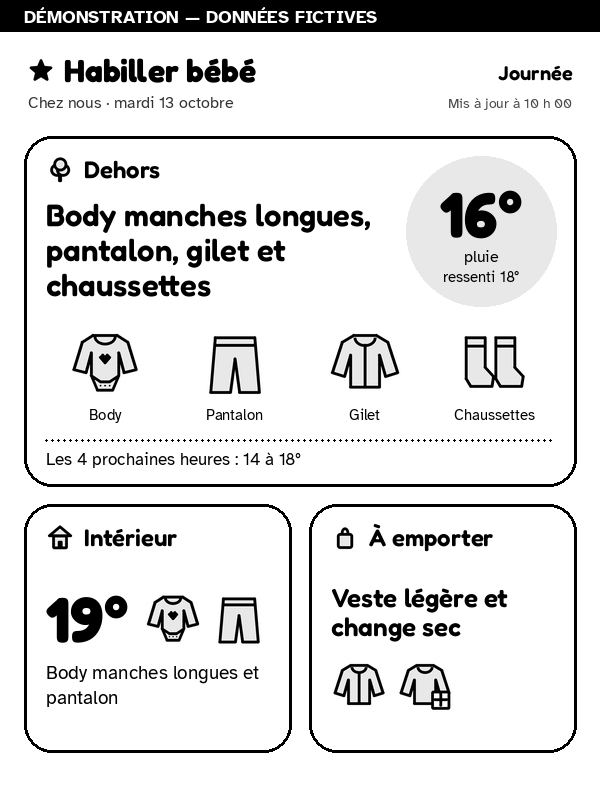
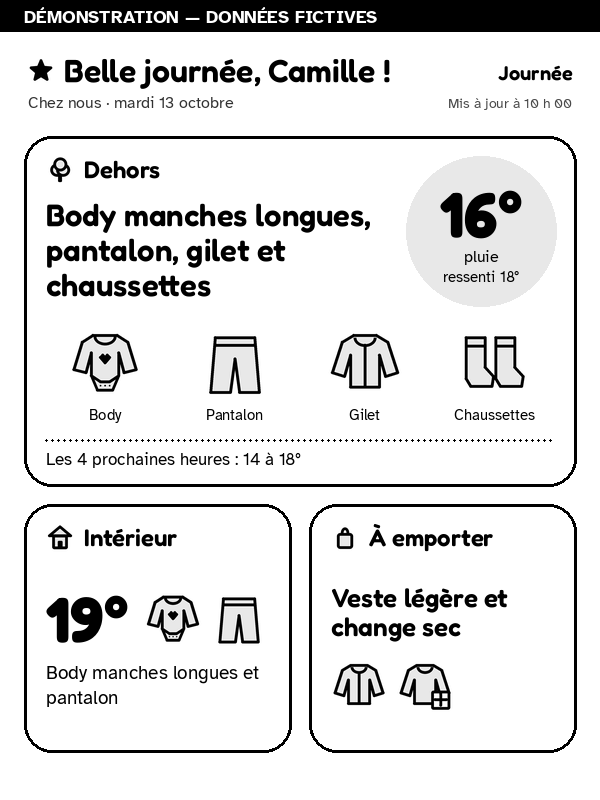
feat(display): add baby names and 50 personalised greetings

Changed region(s): [[0.09, 0.0625, 0.66, 0.125]]

diff --git a/tests/test_messages.py b/tests/test_messages.py
@@ -1,0 +1,81 @@
+import unittest
+from dataclasses import replace
+from datetime import UTC, datetime, timedelta
+from unittest.mock import patch
+
+from PIL import ImageDraw
+
+from app.config import Config
+from app.messages import DAY_MESSAGES, NIGHT_MESSAGES, greeting
+from app.render import Page, render
+from app.weather import demo_snapshot
+
+NOW = datetime(2026, 10, 13, 8, tzinfo=UTC)
+
+
+class MessageTests(unittest.TestCase):
+    def test_fifty_unique_personalised_messages(self):
+        messages = DAY_MESSAGES + NIGHT_MESSAGES
+        self.assertEqual(len(messages), 50)
+        self.assertEqual(len(set(messages)), 50)
+        self.assertTrue(all(message.count("{name}") == 1 for message in messages))
+
+    def test_name_and_blank_fallback(self):
+        self.assertIn("Éloïse", greeting(Config(baby_name=" Éloïse "), NOW, "day"))
+        self.assertIn("bébé", greeting(Config(baby_name="  "), NOW, "day"))
+
+    def test_daily_rotation_covers_each_set(self):
+        for page in ("day", "night"):
+            messages = {greeting(Config(), NOW + timedelta(days=i), page) for i in range(25)}
+            self.assertEqual(len(messages), 25)
+            self.assertEqual(
+                greeting(Config(), NOW, page), greeting(Config(), NOW.replace(hour=9), page)
+            )
+
+    def test_night_stable_across_midnight(self):
+        evening = NOW.replace(hour=21)
+        morning = (NOW + timedelta(days=1)).replace(hour=3)
+        self.assertEqual(greeting(Config(), evening, "night"), greeting(Config(), morning, "night"))
+
+    def test_invalid_names(self):
+        for name in (None, 123, "x" * 41, "a\nb", "a\tb", "a\x00b"):
+            with self.subTest(name=name), self.assertRaises(ValueError):
+                Config(baby_name=name)
+
+    def test_every_greeting_fits_header_with_long_name(self):
+        page = Page()
+        boxes = []
+        original = ImageDraw.ImageDraw.text
+
+        def capture(draw, xy, text, *args, **kwargs):
+            boxes.append(draw.textbbox(xy, text, font=kwargs["font"], anchor=kwargs.get("anchor")))
+            return original(draw, xy, text, *args, **kwargs)
+
+        for template in DAY_MESSAGES + NIGHT_MESSAGES:
+            with patch.object(ImageDraw.ImageDraw, "text", new=capture):
+                boxes.clear()
+                page.header(
+                    36,
+                    "Journée",
+                    "Chez nous",
+                    "Mis à jour à 10 h 00",
+                    template.format(name="W" * 40),
+                )
+            left, top, right, bottom = boxes[0]
+            self.assertGreaterEqual(left, 64)
+            self.assertLessEqual(right, 454)
+            self.assertLessEqual(bottom, 90)
+
+    def test_render_uses_personalised_greeting(self):
+        config = Config(baby_name="Camille")
+        texts = []
+        original = ImageDraw.ImageDraw.text
+
+        def capture(draw, xy, text, *args, **kwargs):
+            texts.append(text)
+            return original(draw, xy, text, *args, **kwargs)
+
+        with patch.object(ImageDraw.ImageDraw, "text", new=capture):
+            render(replace(demo_snapshot(NOW), demo=False), config, NOW, "day")
+        self.assertIn(greeting(config, NOW, "day"), texts)
+        self.assertNotIn("Habiller bébé", texts)

diff --git a/how_to_dress_baby/app/messages.py b/how_to_dress_baby/app/messages.py
@@ -1,0 +1,78 @@
+"""Local French greetings, stable for a whole day or sleep period."""
+
+from datetime import datetime, timedelta
+from zoneinfo import ZoneInfo
+
+from app.config import Config
+
+DAY_MESSAGES = (
+    "Bonjour, {name} !",
+    "Coucou, {name} !",
+    "Belle journée, {name} !",
+    "Un sourire, {name} ?",
+    "Tout doux, {name} !",
+    "Prêt pour un câlin, {name} ?",
+    "Petit bonjour à {name} !",
+    "Au fil du jour, {name}",
+    "À ton rythme, {name}",
+    "Place aux sourires, {name} !",
+    "Un jour à découvrir, {name}",
+    "Les petits bonheurs de {name}",
+    "Bienvenue au jour, {name} !",
+    "Des câlins pour {name}",
+    "On prend le temps, {name}",
+    "Une douce journée, {name}",
+    "À petits pas, {name}",
+    "Le monde t’attend, {name}",
+    "Du bonheur pour {name}",
+    "C’est ton moment, {name}",
+    "Un peu de douceur, {name}",
+    "On découvre ensemble, {name}",
+    "Bonjour les sourires de {name} !",
+    "Une pause câlin, {name} ?",
+    "Jour après jour, {name}",
+)
+
+NIGHT_MESSAGES = (
+    "Bonne nuit, {name}",
+    "Doux rêves, {name}",
+    "Bonsoir, {name}",
+    "Tout doucement, {name}",
+    "Une nuit paisible, {name}",
+    "Un câlin du soir, {name}",
+    "La lune te salue, {name}",
+    "Le jour se repose, {name}",
+    "Un soir tout doux, {name}",
+    "À demain, {name}",
+    "Les étoiles pour {name}",
+    "Une pause tendresse, {name}",
+    "Le calme du soir, {name}",
+    "Au pays des rêves, {name}",
+    "La nuit arrive, {name}",
+    "Des rêves pour {name}",
+    "Un petit bisou, {name}",
+    "Le soir à ton rythme, {name}",
+    "Douce soirée, {name}",
+    "Un moment calme, {name}",
+    "Sous les étoiles, {name}",
+    "La journée s’achève, {name}",
+    "On ralentit, {name}",
+    "Tendre nuit, {name}",
+    "Une berceuse pour {name}",
+)
+
+
+def greeting(config: Config, now: datetime, page: str) -> str:
+    local = now.astimezone(ZoneInfo(config.timezone))
+    date = local.date()
+    if page == "night":
+        if local.strftime("%H:%M") < config.day_start:
+            date -= timedelta(days=1)
+        messages = NIGHT_MESSAGES
+    elif page == "day":
+        messages = DAY_MESSAGES
+    else:
+        raise ValueError("page must be day or night")
+    return messages[date.toordinal() % len(messages)].format(
+        name=config.baby_name.strip() or "bébé"
+    )

diff --git a/how_to_dress_baby/app/render.py b/how_to_dress_baby/app/render.py
@@ -9,6 +9,7 @@ from PIL import Image, ImageDraw, ImageFont
 
 from app.artwork import GREY, LABELS, icon, marker
 from app.config import Config
+from app.messages import greeting
 from app.models import Room, Snapshot
 from app.rules import fresh, recommend
 
@@ -217,10 +218,11 @@ class Page:
         self.text(MARGIN, 23, message, 18, bold=True, fill=255)
         return BANNER_HEIGHT + 4
 
-    def header(self, top, period, subtitle, updated) -> int:
+    def header(self, top, period, subtitle, updated, title="Habiller bébé") -> int:
         """Title and context on the left, period and freshness on the right."""
         self.image.paste(marker("star", 26), (MARGIN + 4, top + 22))
-        self.text(MARGIN + 40, top + 46, "Habiller bébé", 32, rounded=True, bold=True)
+        size, lines = self.fit(title, 390, (32, 29, 26, 23, 20, 17), 1, rounded=True)
+        self.text(MARGIN + 40, top + 46, lines[0], size, rounded=True)
         self.text(MARGIN + 4, top + 72, subtitle, 16, fill=51)
         self.text(WIDTH - MARGIN - 4, top + 44, period, 20, rounded=True, anchor="rs")
         self.text(WIDTH - MARGIN - 4, top + 72, updated, 14, fill=74, anchor="rs")
@@ -301,6 +303,7 @@ def render_day(snapshot: Snapshot, config: Config, now: datetime) -> bytes:
         "Journée",
         f"{config.location[:28]} · {long_date(now.astimezone(zone))}",
         updated_at(snapshot.fetched_at, now, zone),
+        greeting(config, now, "day"),
     )
 
     # Outdoors: the recommendation leads; its temperature sits right beside it.
@@ -428,6 +431,7 @@ def render_night(snapshot: Snapshot, config: Config, now: datetime) -> bytes:
         "Nuit",
         night_dates(evening, evening + timedelta(days=1)),
         updated_at(observed, now, zone),
+        greeting(config, now, "night"),
     )
 
     left, right = MARGIN, WIDTH - MARGIN

diff --git a/how_to_dress_baby/app/config.py b/how_to_dress_baby/app/config.py
@@ -13,6 +13,7 @@ from zoneinfo import ZoneInfo
 class Config:
     demo: bool = True
     location: str = "Chez nous"
+    baby_name: str = ""
     timezone: str = "Europe/Paris"
     day_start: str = "07:00"
     night_start: str = "19:00"
@@ -37,6 +38,12 @@ class Config:
     cache_dir: str = "cache"
 
     def __post_init__(self) -> None:
+        if (
+            not isinstance(self.baby_name, str)
+            or len(self.baby_name) > 40
+            or any(not char.isprintable() for char in self.baby_name)
+        ):
+            raise ValueError("baby_name must be printable text of at most 40 characters")
         ZoneInfo(self.timezone)
         for name in ("day_start", "night_start"):
             if not re.fullmatch(r"(?:[01]\d|2[0-3]):[0-5]\d", getattr(self, name)):

diff --git a/tests/test_display.py b/tests/test_display.py
@@ -201,7 +201,7 @@ class HTTPTests(unittest.TestCase):
         self.assertEqual(response.status, 200)
         value = json.loads(response.read())
         self.assertEqual(value["status"], "demo")
-        self.assertEqual(value["version"], "0.3.1")
+        self.assertEqual(value["version"], "0.3.2")
         self.assertEqual(value["decision"]["basis"], "air_temperature")
         self.assertEqual(value["decision"]["band"], "cool")
         self.assertNotIn("token", str(value))

diff --git a/how_to_dress_baby/app/server.py b/how_to_dress_baby/app/server.py
@@ -125,6 +125,7 @@ class Display:
                     {
                         "date": now.astimezone(ZoneInfo(self.config.timezone)).date().isoformat(),
                         "page": selected,
+                        "baby_name": self.config.baby_name,
                         "before_day_start": now.astimezone(ZoneInfo(self.config.timezone)).strftime(
                             "%H:%M"
                         )

diff --git a/how_to_dress_baby/app/__init__.py b/how_to_dress_baby/app/__init__.py
@@ -1,3 +1,3 @@
 """Local baby clothing display. No runtime AI or external artwork."""
 
-__version__ = "0.3.1"
+__version__ = "0.3.2"

diff --git a/docs/setup.md b/docs/setup.md
@@ -35,6 +35,15 @@ supplies authentication; no separate token is needed.
 
 ## Adjust the display
 
+Set `baby_name` to your child's first name (up to 40 printable characters) for
+personalised French greetings in the header. Leave it blank to use “bébé”.
+There are 50 built-in messages: 25 for daytime and 25 for bedtime. They rotate
+daily in your configured timezone; a bedtime greeting stays the same across
+midnight until the day starts. No AI or extra Kindle wake-ups are involved.
+Long greetings shrink to fit; very long names may be shortened on screen.
+The name appears in images served on your LAN, so avoid sharing personalised
+screenshots publicly unless you intend to share it.
+
 Defaults are day **07:00–19:00**, timezone **Europe/Paris**, weather refresh every
 **15 minutes**, and reading expiry after **120 minutes**. Set the location label,
 timezone, schedule and freshness limits for your home and sensors.

diff --git a/README.md b/README.md
@@ -26,6 +26,8 @@ by this app.
   missing or too old to use.
 - **Keeps the Kindle display simple:** grayscale illustrations, readable text,
   and a low-battery reminder when battery reporting is configured.
+- **Adds a personal touch:** set your baby's name for 50 French greetings that
+  rotate between daytime and bedtime. Leave it blank to use “bébé”.
 
 > **A starting point, not medical advice.** Clothing thresholds are adjustable
 > rules of thumb, not clinically validated cutoffs. Check your baby's comfort

diff --git a/CHANGELOG.md b/CHANGELOG.md
@@ -1,5 +1,11 @@
 # Changelog
 
+## 0.3.2
+
+- Add optional `baby_name` configuration and 50 personalised French greetings.
+- Rotate daytime and bedtime greetings daily, keeping bedtime stable across midnight.
+- Fit greetings to the header and keep names local to the configured display.
+
 ## 0.3.1
 
 - Rebalance both pages: the outdoor outfit leads in one sentence (« A, B et C »),
